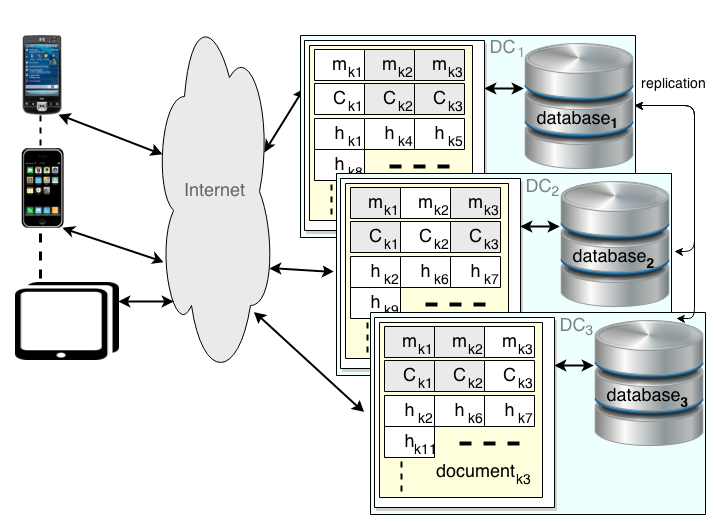
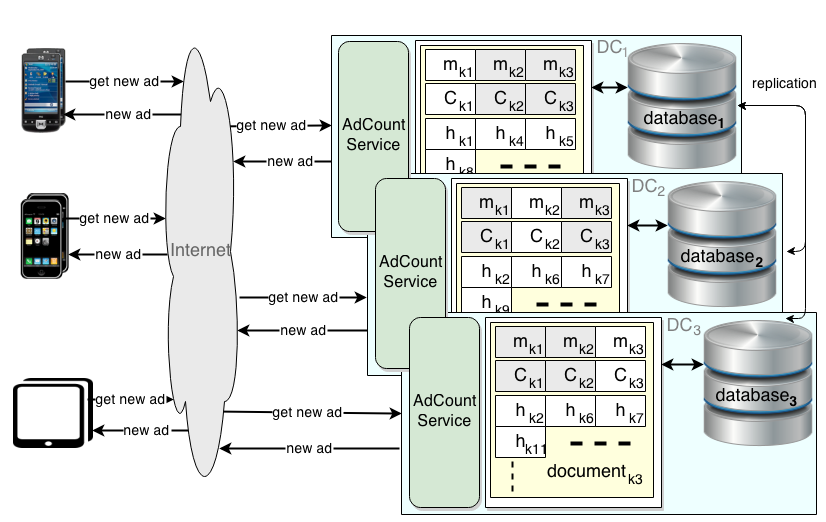
Include more information into the adCount image make the image bigger in the document

diff --git a/D1.2/advertisementCounter.tex b/D1.2/advertisementCounter.tex
@@ -110,13 +110,13 @@ The life statistics nodes serve the entire state of all campaigns. They hold a c
 
 \subsubsection{Multiple Data Centres}
 The campaign counter could also be split between the different \glspl{dc} in each country which will improve the accuracy of the counter, Figure \ref{fig:ads_countert_}. At each \gls{dc} a part of the overall counter would be assigned to each \gls{dc}, which will only be able to service this number of times the specific ad. The changes to the ad counters are replicated in the other \glspl{dc} at different intervals.
-\begin{figure}[ht!]
+\begin{figure*}[ht!]
 	\centering
 	\includegraphics[width=1\linewidth]{figures/AdsServiceSpread2DCs.png}
 
 	\caption{Overview for the distribution of counters with three \glspl{dc}, $|DC| = 3$.}
 	\label{fig:ads_countert_}
-\end{figure}
+\end{figure*}
 
 The distribution of the counter could be based on different criterion, e.g. population size covered by each \gls{dc}, existing statistics from previous campaigns or studies, costumer preferences, intention of the campaign like the increase in the market share in an already established part of the territory or entering a new area to extend the territory covered.
 
